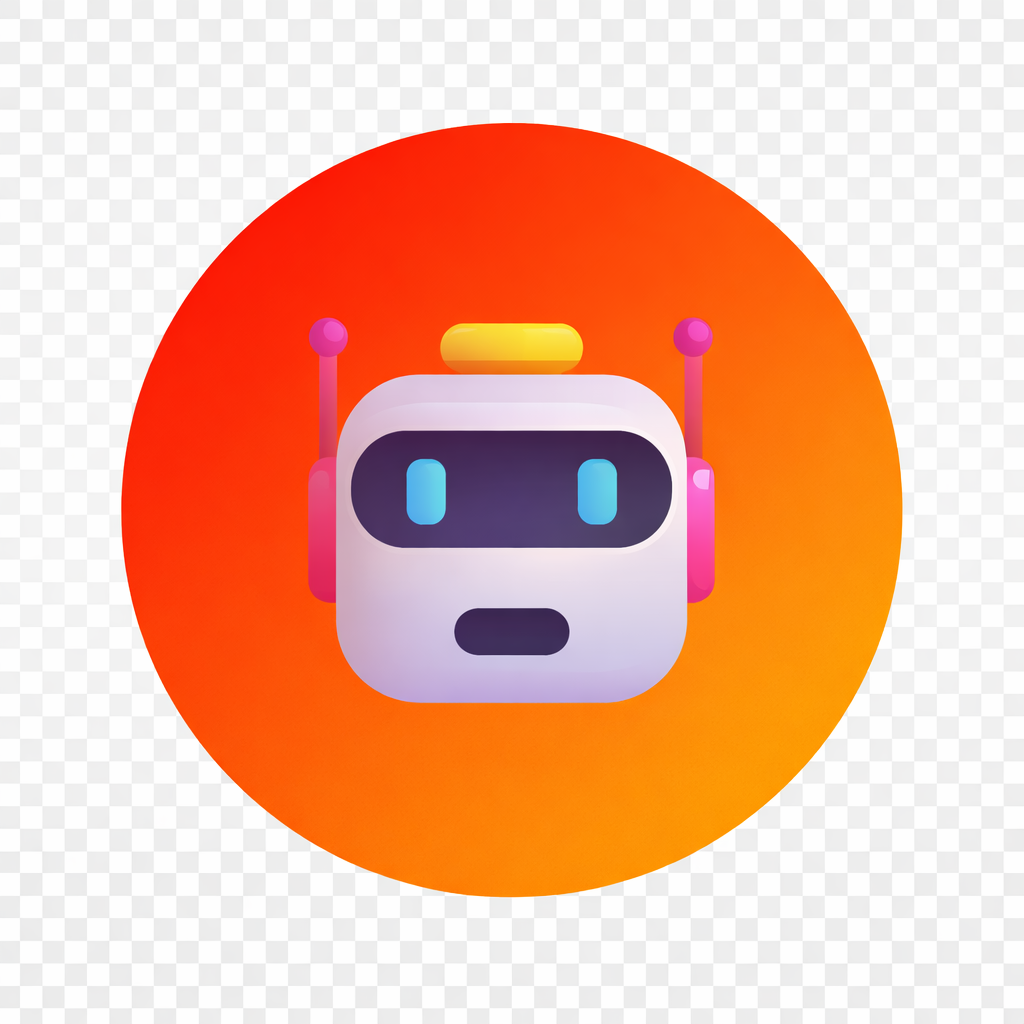
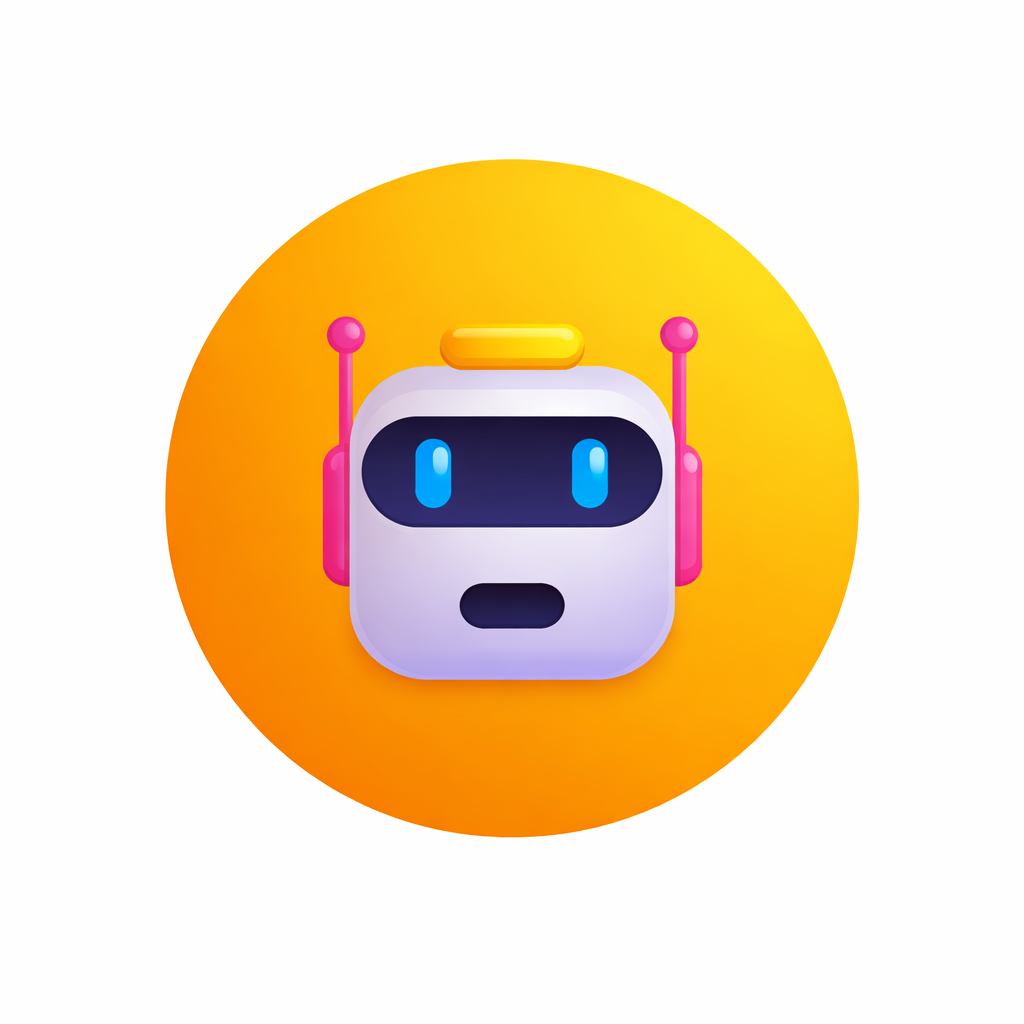
Updated files for reverted theme
Updated files for reverted theme

diff --git a/src/pages/FloatingChat.tsx b/src/pages/FloatingChat.tsx
@@ -76,7 +76,7 @@ const TypingText: React.FC<{
           display: 'inline-block',
           width: '6px',
           height: '14px',
-          background: '#ff0000',
+          background: '#FFD700',
           marginLeft: '4px',
           verticalAlign: 'middle',
           animation: 'blink 1s step-end infinite'
@@ -186,6 +186,7 @@ export const FloatingWindow: React.FC<PanelProps<Options>> = ({ options, height 
           setMessages((prev) => prev.map((m) =>
             m.id === assistantMsgId ? { ...m, isComplete: true } : m
           ));
+          setLoading(false); // Explicitly stop global loading here
           break;
         }
 
@@ -287,7 +288,7 @@ export const FloatingWindow: React.FC<PanelProps<Options>> = ({ options, height 
         }
         @keyframes aiShiftFast { 0% { background-position: 0% 50%; } 50% { background-position: 100% 50%; } 100% { background-position: 0% 50%; } }
         .glow-mesh { background: linear-gradient(115deg, #ff375f, #ff9f0a, #ffd60a, #64d2ff, #5e5ce6, #bf5af2, #ff375f); background-size: 150% 150%; animation: aiShiftFast 2.5s linear infinite; }
-        .input-yellow-mesh { background: linear-gradient(90deg, #ff0000, #FF8C00, #FFE066, #FF9500, #ff0000); background-size: 200% auto; animation: aiShiftFast 2s linear infinite; }
+        .input-yellow-mesh { background: linear-gradient(90deg, #FFD700, #FF8C00, #FFE066, #FF9500, #FFD700); background-size: 200% auto; animation: aiShiftFast 2s linear infinite; }
         .p-select-menu, .css-1h9z7xy-menu .select-menu-container{ z-index: 99999 !important; }
 
         @keyframes rotateRainbow {
@@ -298,7 +299,7 @@ export const FloatingWindow: React.FC<PanelProps<Options>> = ({ options, height 
           width: 18px;
           height: 18px;
           border: 3px solid rgba(255, 255, 255, 0.1);
-          border-top: 3px solid #ff0000;
+          border-top: 3px solid #FFD700;
           border-right: 3px solid #FF375F;
           border-radius: 50%;
           animation: rotateRainbow 1s linear infinite;
@@ -313,7 +314,7 @@ export const FloatingWindow: React.FC<PanelProps<Options>> = ({ options, height 
           100% { background-position: 0% 50%; }
         }
         .thinking-text-gradient {
-          background: linear-gradient(90deg, #ff0000, #FF375F, #bf5af2, #64d2ff, #ff0000);
+          background: linear-gradient(90deg, #FFD700, #FF375F, #bf5af2, #64d2ff, #FFD700);
           background-size: 200% auto;
           -webkit-background-clip: text;
           -webkit-text-fill-color: transparent;
@@ -353,7 +354,7 @@ export const FloatingWindow: React.FC<PanelProps<Options>> = ({ options, height 
 
       <div style={{ position: 'relative', zIndex: 1, display: 'flex', flexDirection: 'column', height: '100%', borderRadius: 16, overflow: 'visible', background: '#0e1014', border: '1px solid rgba(255,255,255,0.08)' }}>
       <div style={{
-        backgroundImage: 'linear-gradient(90deg, #ff0000, #FF8C00)',
+        backgroundImage: 'linear-gradient(90deg, #FFD700, #FF8C00)',
         padding: '8px 16px',
         display: 'flex',
         alignItems: 'center',
@@ -409,7 +410,7 @@ export const FloatingWindow: React.FC<PanelProps<Options>> = ({ options, height 
                 padding: '12px 16px',
                 /* THE KEY CHANGE: Asymmetrical border radius */
                 borderRadius: isUser ? '20px 20px 0px 20px' : '0px 20px 20px 20px',
-                background: isUser ? 'linear-gradient(135deg, #ff0000, #FF8C00)' : 'rgba(255,255,255,0.08)',
+                background: isUser ? 'linear-gradient(135deg, #FFD700, #FF8C00)' : 'rgba(255,255,255,0.08)',
                 color: isUser ? '#000' : '#e0e0e0',
                 boxShadow: '0 4px 12px rgba(0,0,0,0.15)',
                 border: isUser ? 'none' : '1px solid rgba(255,255,255,0.1)'
@@ -474,16 +475,10 @@ export const FloatingWindow: React.FC<PanelProps<Options>> = ({ options, height 
           );
           })}
           {(loading || messages[messages.length - 1]?.isStreaming) && (
-            <div style={{
-              color: '#ff0000',
-              fontSize: '13px',
-              paddingLeft: 10,
-              display: 'flex',
-              alignItems: 'center',
-              marginBottom: '10px'
-            }}>
+            <div style={{ color: '#FFD700', fontSize: '13px', paddingLeft: 10, display: 'flex', alignItems: 'center', marginBottom: '10px' }}>
               <div className="thinking-ring" />
               <span className="thinking-text-gradient">
+                {/* If we have a message currently streaming, say Typing, otherwise Thinking */}
                 {messages[messages.length - 1]?.isStreaming ? 'Assistant is typing...' : 'Assistant is thinking...'}
               </span>
             </div>
@@ -518,7 +513,7 @@ export const FloatingWindow: React.FC<PanelProps<Options>> = ({ options, height 
                 onChange={v => setSelectedModel(v.value!)}
                 menuPlacement="bottom"
               />
-              <Button onClick={() => handleSend()} style={{ background: 'linear-gradient(90deg, #ff0000, #FF8C00)', color: '#000', fontWeight: 'bold' }}>Ask</Button>
+              <Button onClick={() => handleSend()} style={{ background: 'linear-gradient(90deg, #FFD700, #FF8C00)', color: '#000', fontWeight: 'bold' }}>Ask</Button>
             </div>
           </div>
         </div>
@@ -596,7 +591,7 @@ export function FloatingChat() {
       <div
         onMouseDown={e => { startRef.current = { x: e.clientX, y: e.clientY }; document.addEventListener('mousemove', onMove); document.addEventListener('mouseup', onUp); }}
         onClick={() => !isDrag && setOpen(!open)}
-        style={{ position: 'fixed', right: pos.x, bottom: pos.y, width: 74, height: 74, borderRadius: '50%', zIndex: 10001, cursor: isDrag ? 'grabbing' : 'grab', background: 'linear-gradient(135deg, #ff0000, #FF8C00)', boxShadow: '0 8px 32px rgba(255,165,0,0.4)', display: 'flex', alignItems: 'center', justifyContent: 'center', userSelect: 'none' }}
+        style={{ position: 'fixed', right: pos.x, bottom: pos.y, width: 74, height: 74, borderRadius: '50%', zIndex: 10001, cursor: isDrag ? 'grabbing' : 'grab', background: 'linear-gradient(135deg, #FFD700, #FF8C00)', boxShadow: '0 8px 32px rgba(255,165,0,0.4)', display: 'flex', alignItems: 'center', justifyContent: 'center', userSelect: 'none' }}
       >
         <div className={`button-icon ${open ? 'button-open' : ''}`}>
           {open ? <span style={{ fontSize: 24, fontWeight: 'bold', color: '#000' }}>✕</span> : <span style={{ fontSize: 32 }}>🤖</span>}
@@ -677,7 +672,7 @@ export function FloatingChat() {
             // justifyContent: 'center',
             // background: '#16181d', // Match your panel background
             // borderRadius: '50%',
-            // border: '2px solid #ff0000',
+            // border: '2px solid #FFD700',
             // boxShadow: '0 0 10px rgba(255, 215, 0, 0.3)', // Subtle glow
             // transition: 'transform 0.2s ease',
           }}
@@ -690,8 +685,8 @@ export function FloatingChat() {
         <div style={{
           width: 14,
           height: 14,
-          borderTop: '3px solid #ff0000',
-          borderLeft: '3px solid #ff0000',
+          borderTop: '3px solid #FFD700',
+          borderLeft: '3px solid #FFD700',
           borderRadius: '2px 0 0 0',
           filter: 'drop-shadow(0px 0px 2px rgba(0,0,0,0.8))' // Adds contrast against dark backgrounds
         }} />